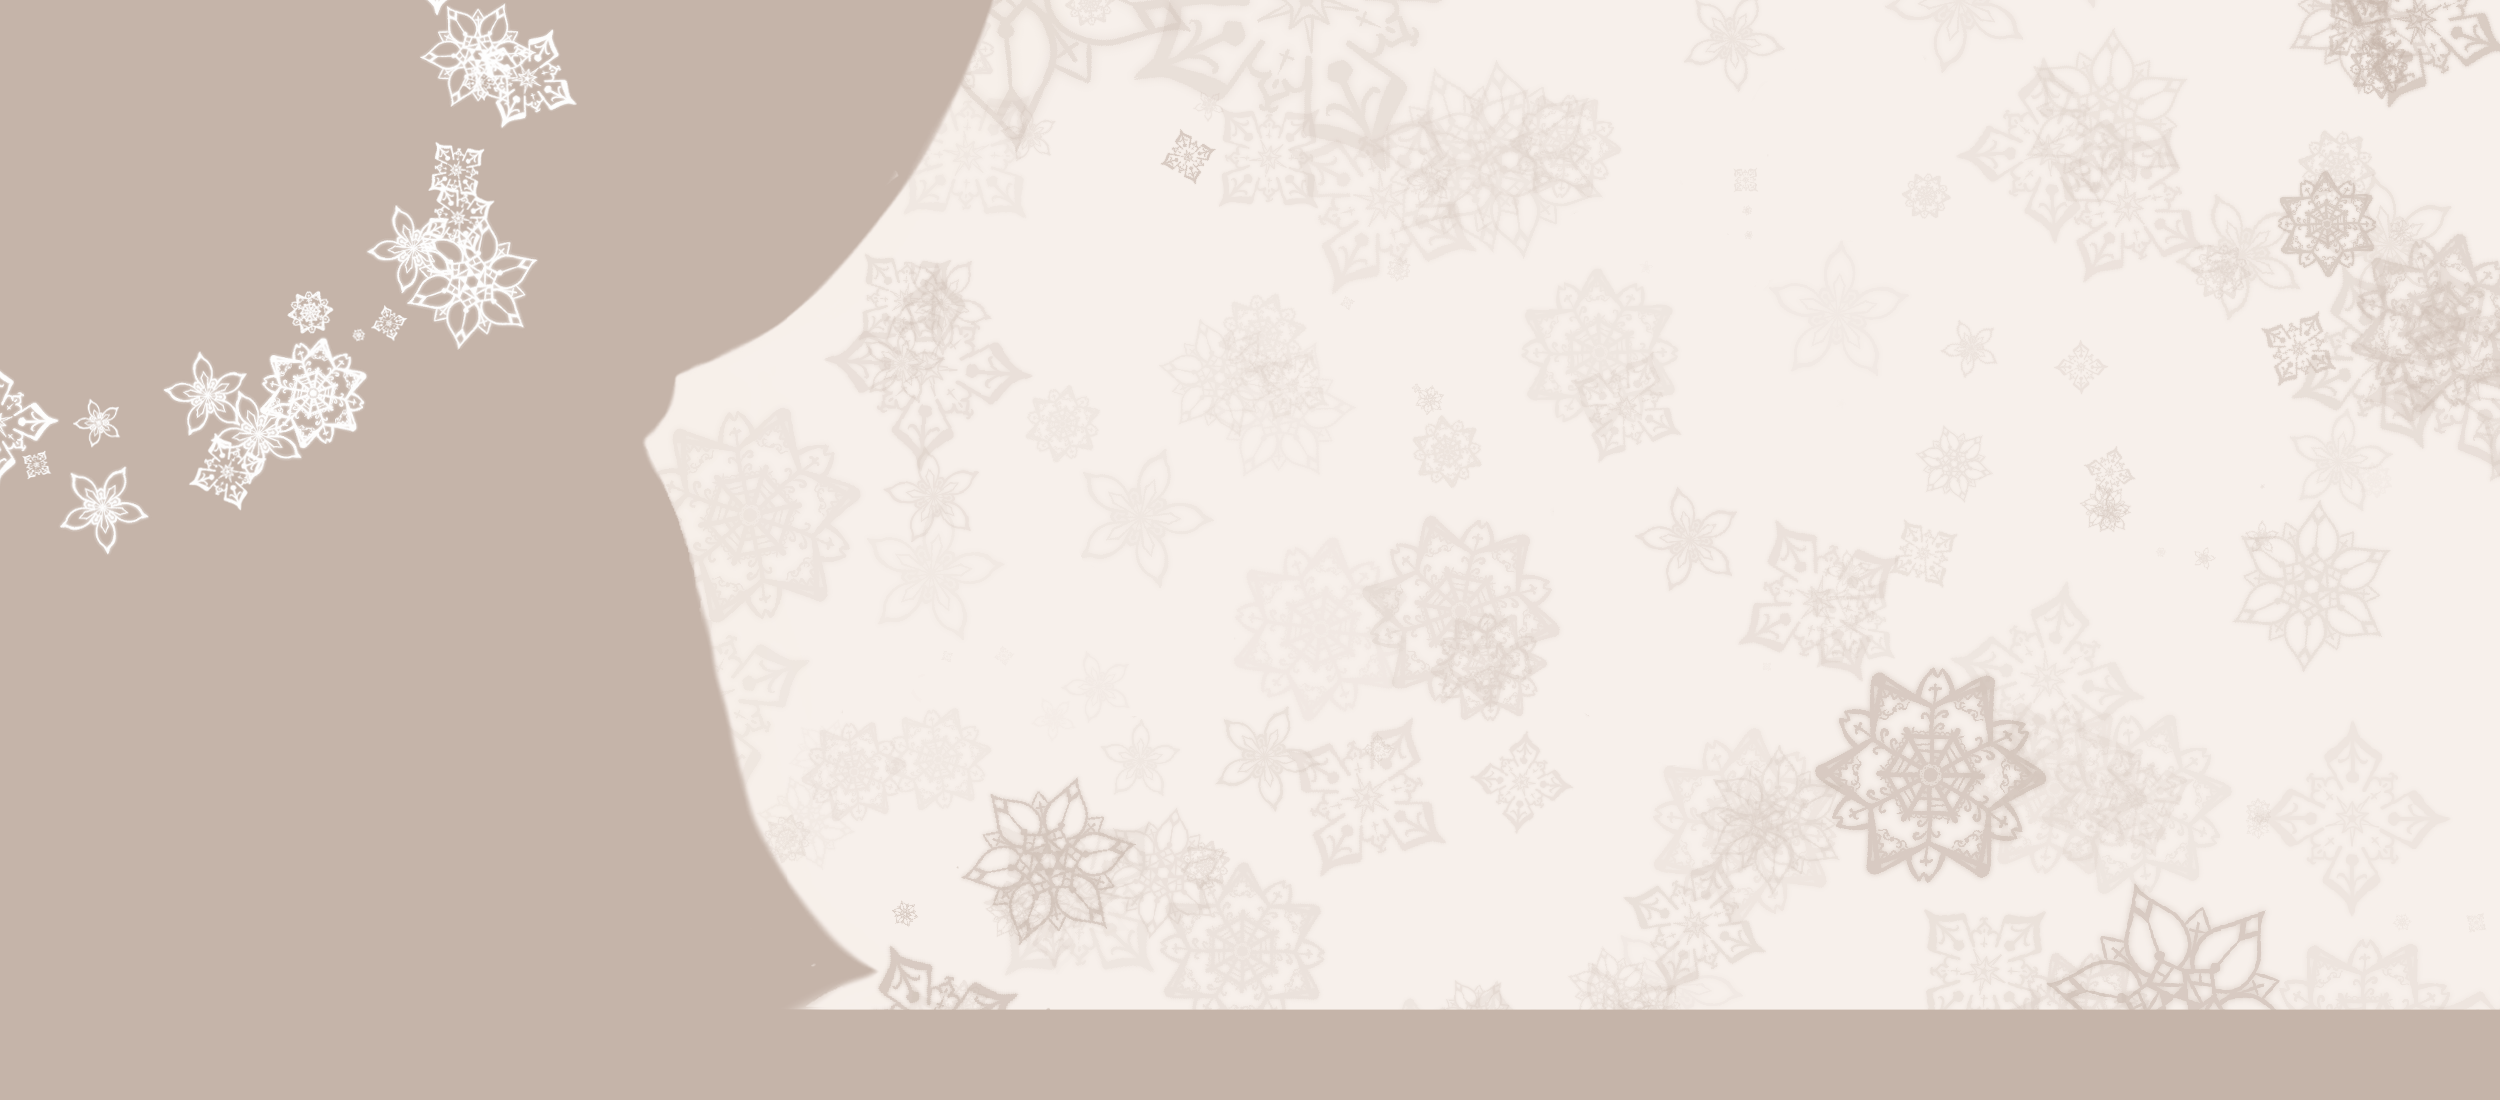
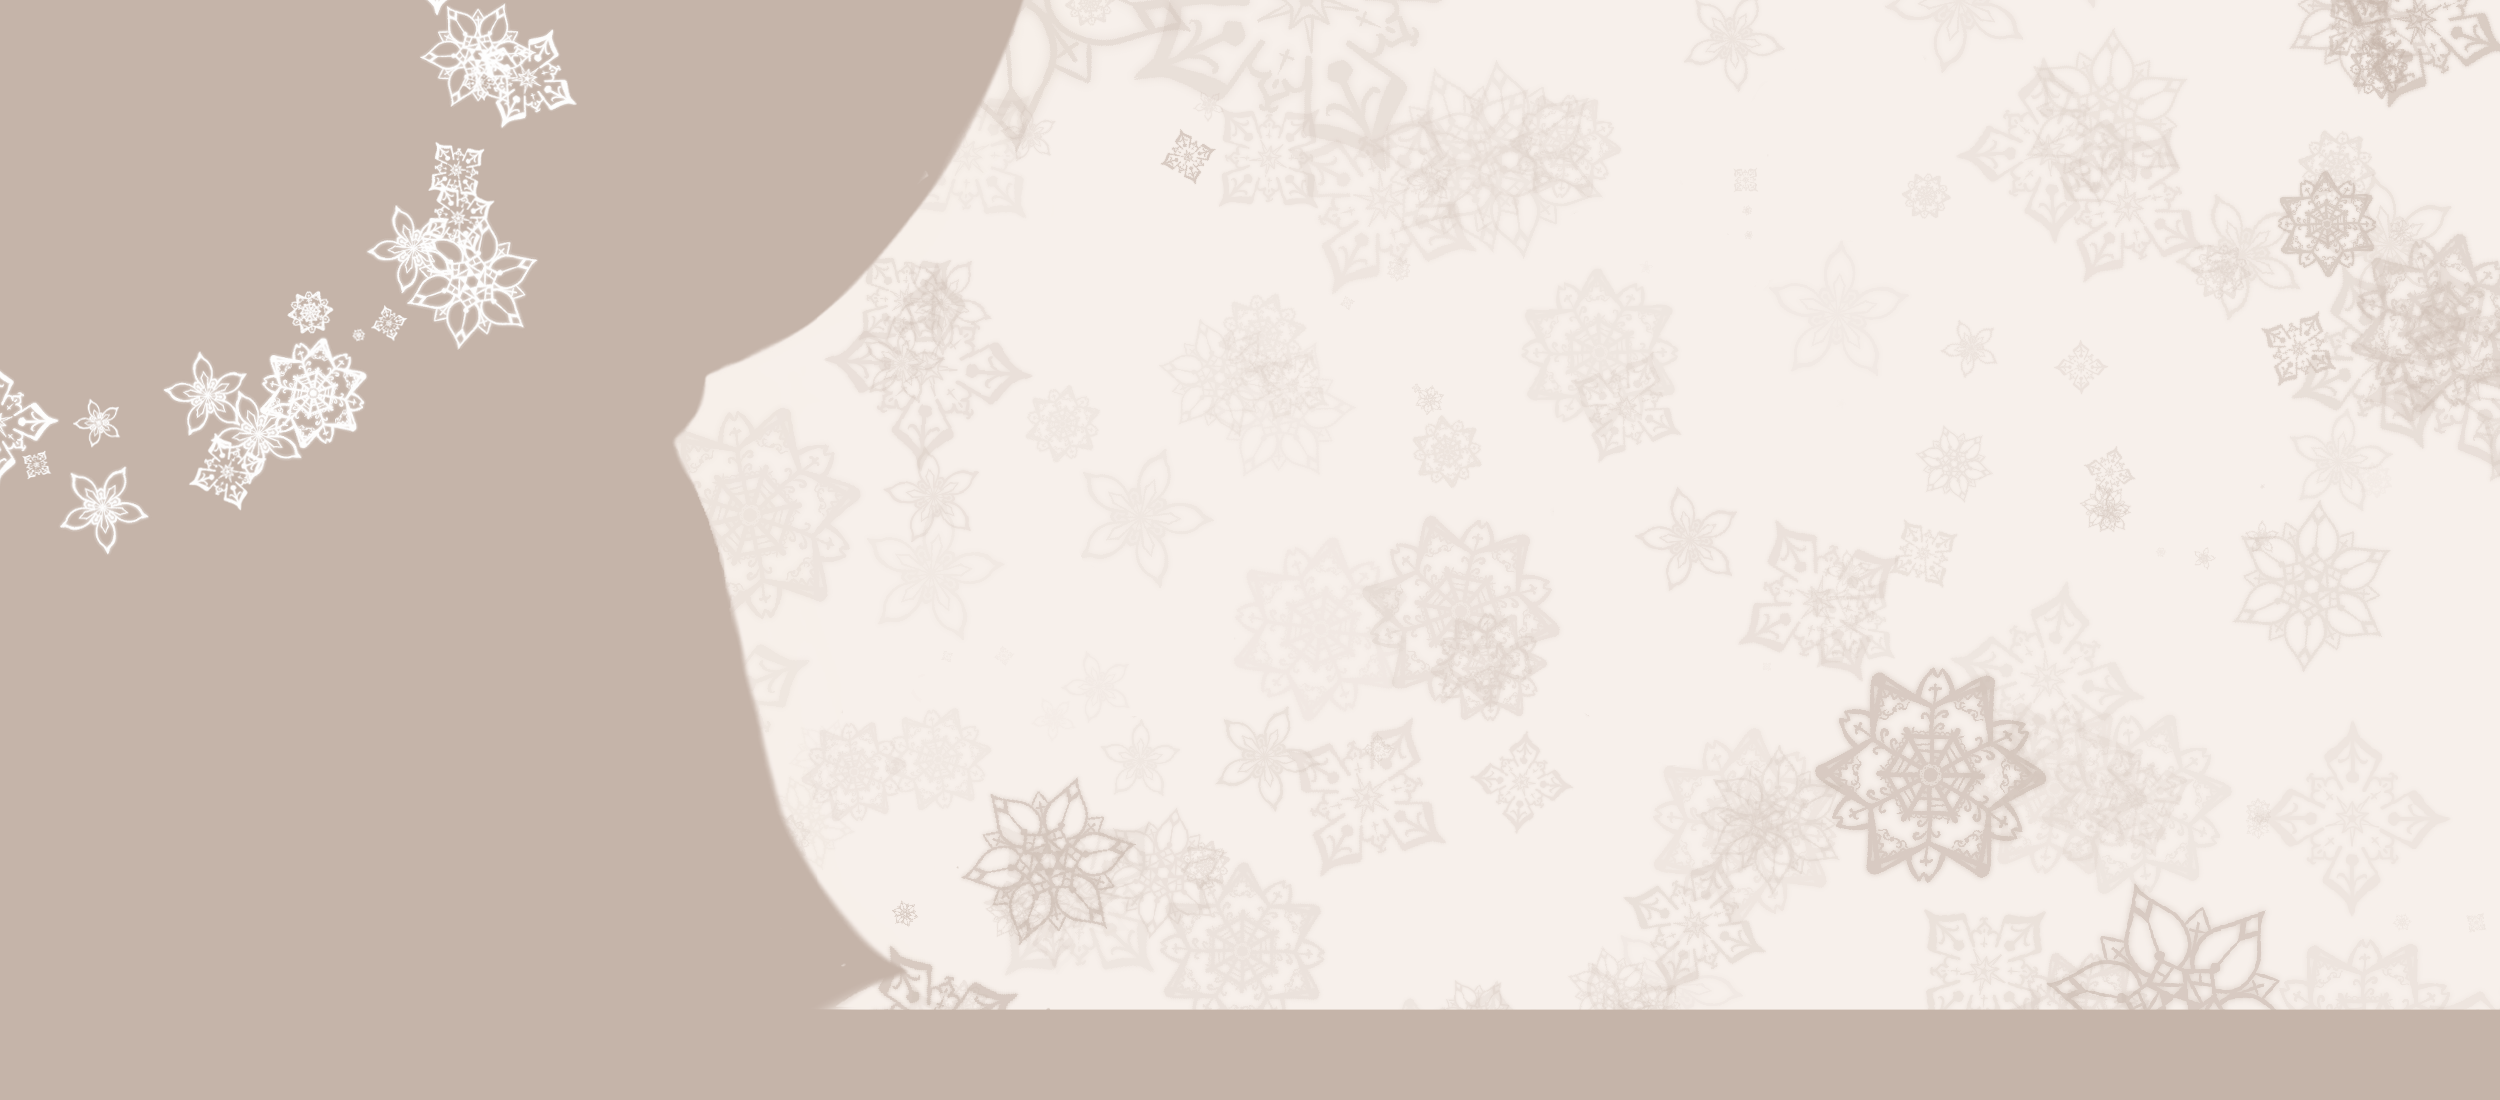
[Add]新規登録画面レイアウト調整

diff --git a/app/assets/stylesheets/application.css b/app/assets/stylesheets/application.css
@@ -358,46 +358,50 @@ footer{
 }
 
 /*-------------------------------------新規登録画面--------------------------------*/
-.signup_top{
-  padding: 16% 10% 0% 10%;
-}
-.signup_background1{
-  background-image: url("signup_background1.png");
-  background-size: cover;
-  background-repeat: no-repeat;
+.signup_top1{
+  background-image: url("signup_back1.png");
 }
 
-.signup_lead_content{
+.signup_heading2_content{
   display: flex;
+  position: absolute;
+  top: 34%;
+  right: 18%;
 }
 
-.signup_lead1{
-  margin-left: auto;
-  margin-bottom: 10%;
-  color: rgb(59, 34, 33);
-  font-family: serif;
-  font-weight: bold;
-}
-
-.signup_lead1_bold{
-  font-size: 35px;
-}
-
-.signup_lead1_bold span{
-  font-size: 20px;
+.signup_heading2 span{
+  font-size: 22px;
   margin-left: 20px;
   color: rgb(148, 26, 16);
 }
 
-.signup_background2{
+.signup_top2{
   width: 100px;
   height: 100px;
-  background-image: url("signup_background2");
+  background-image: url("signup_back2.png");
   background-size: cover;
 }
 
+.signup_heading1{
+  display: inline-block;
+  padding-bottom: 2px;
+  border-bottom: solid 5px rgba(50, 26, 10, 0.6);
+  position: absolute;
+  bottom: 2px;
+}
+
+.signup_heading1 h1{
+  display: inline-block;
+  padding-right: 30px;
+  font-family: "ヒラギノ明朝 ProN W6";
+  font-size: 90px;
+  font-weight: bold;
+  color: rgba(249, 242, 237, 0.9);
+  background: linear-gradient(transparent 70%, rgb(50, 26, 10) 80%);
+}
+
 .signup_bottom{
-  background-image: url("base_back1");
+  background-image: url("base_back1.png");
   background-size: cover;
   background-repeat: no-repeat;
   padding: 5% 10%;
@@ -408,22 +412,13 @@ footer{
   justify-content: space-between;
 }
 
-.signup_lead2{
+.signup_heading3{
   color: rgb(59, 34, 33);
   font-family: serif;
   font-size: 30px;
   border: double 10px rgb(59, 34, 33);
-  width: 250px;
   text-align: center;
-}
-
-.company_signup_lead2{
-  color: rgb(59, 34, 33);
-  font-family: serif;
-  font-size: 30px;
-  border: double 10px rgb(59, 34, 33);
-  width: 400px;
-  text-align: center;
+  padding: 10px 20px;
 }
 
 .signup_form{
